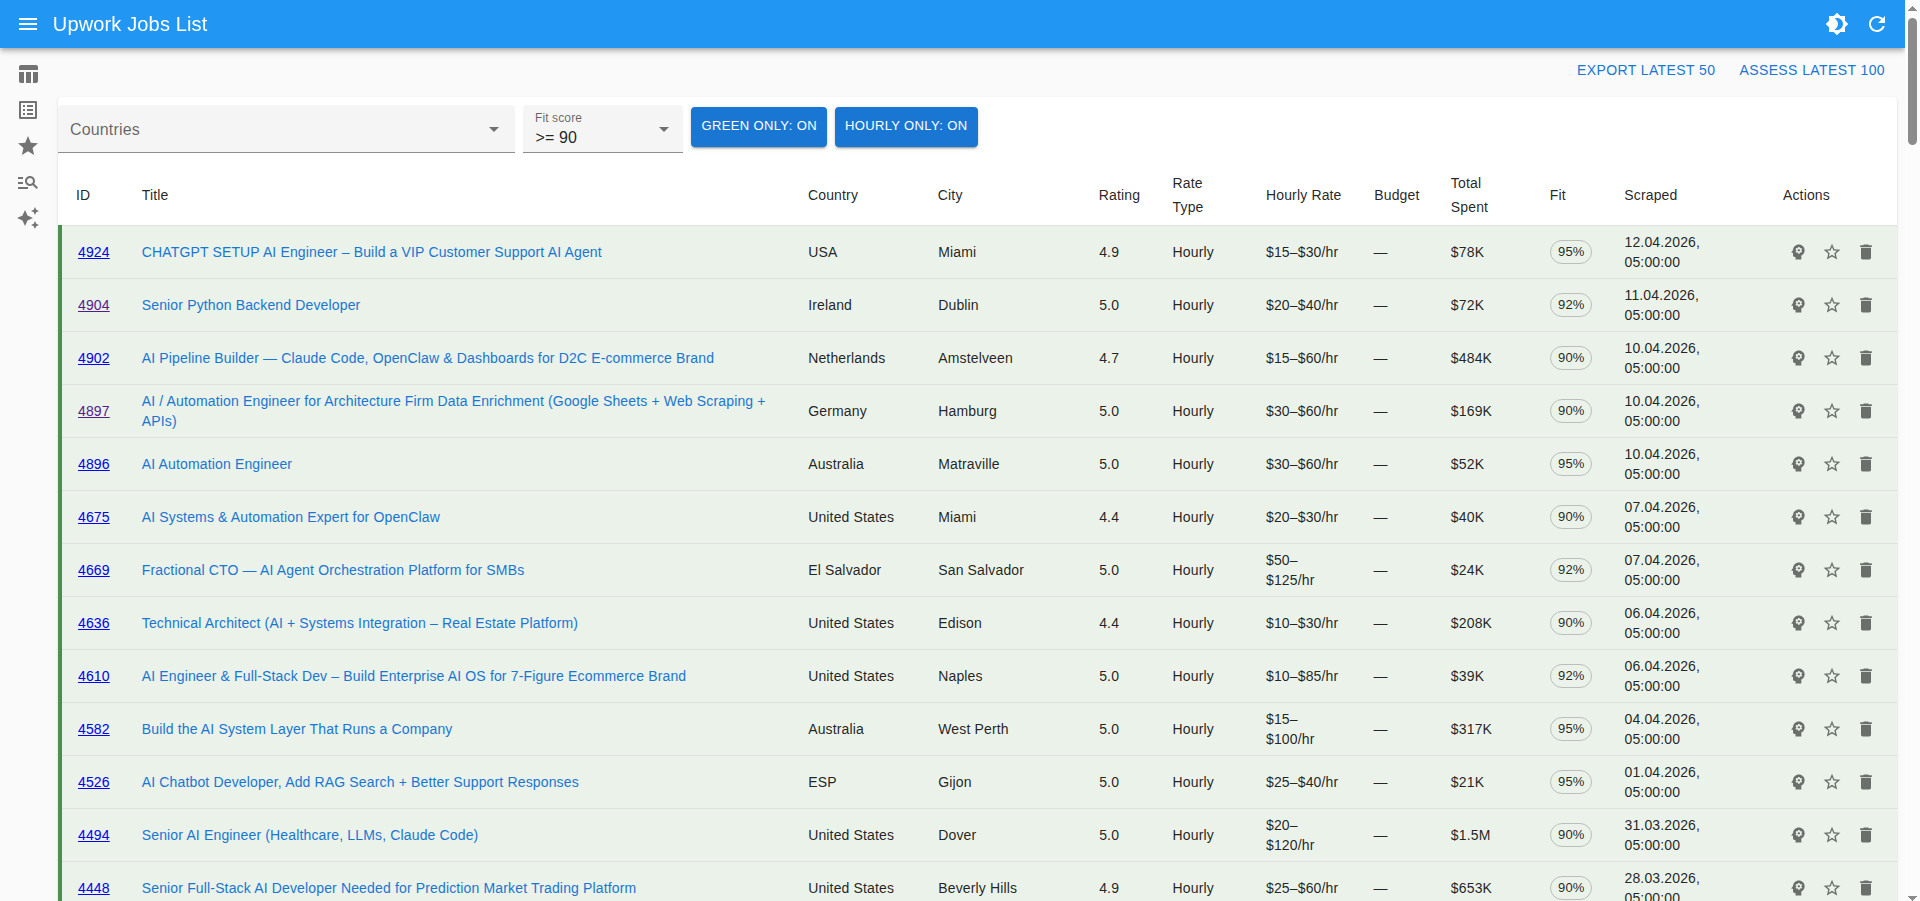
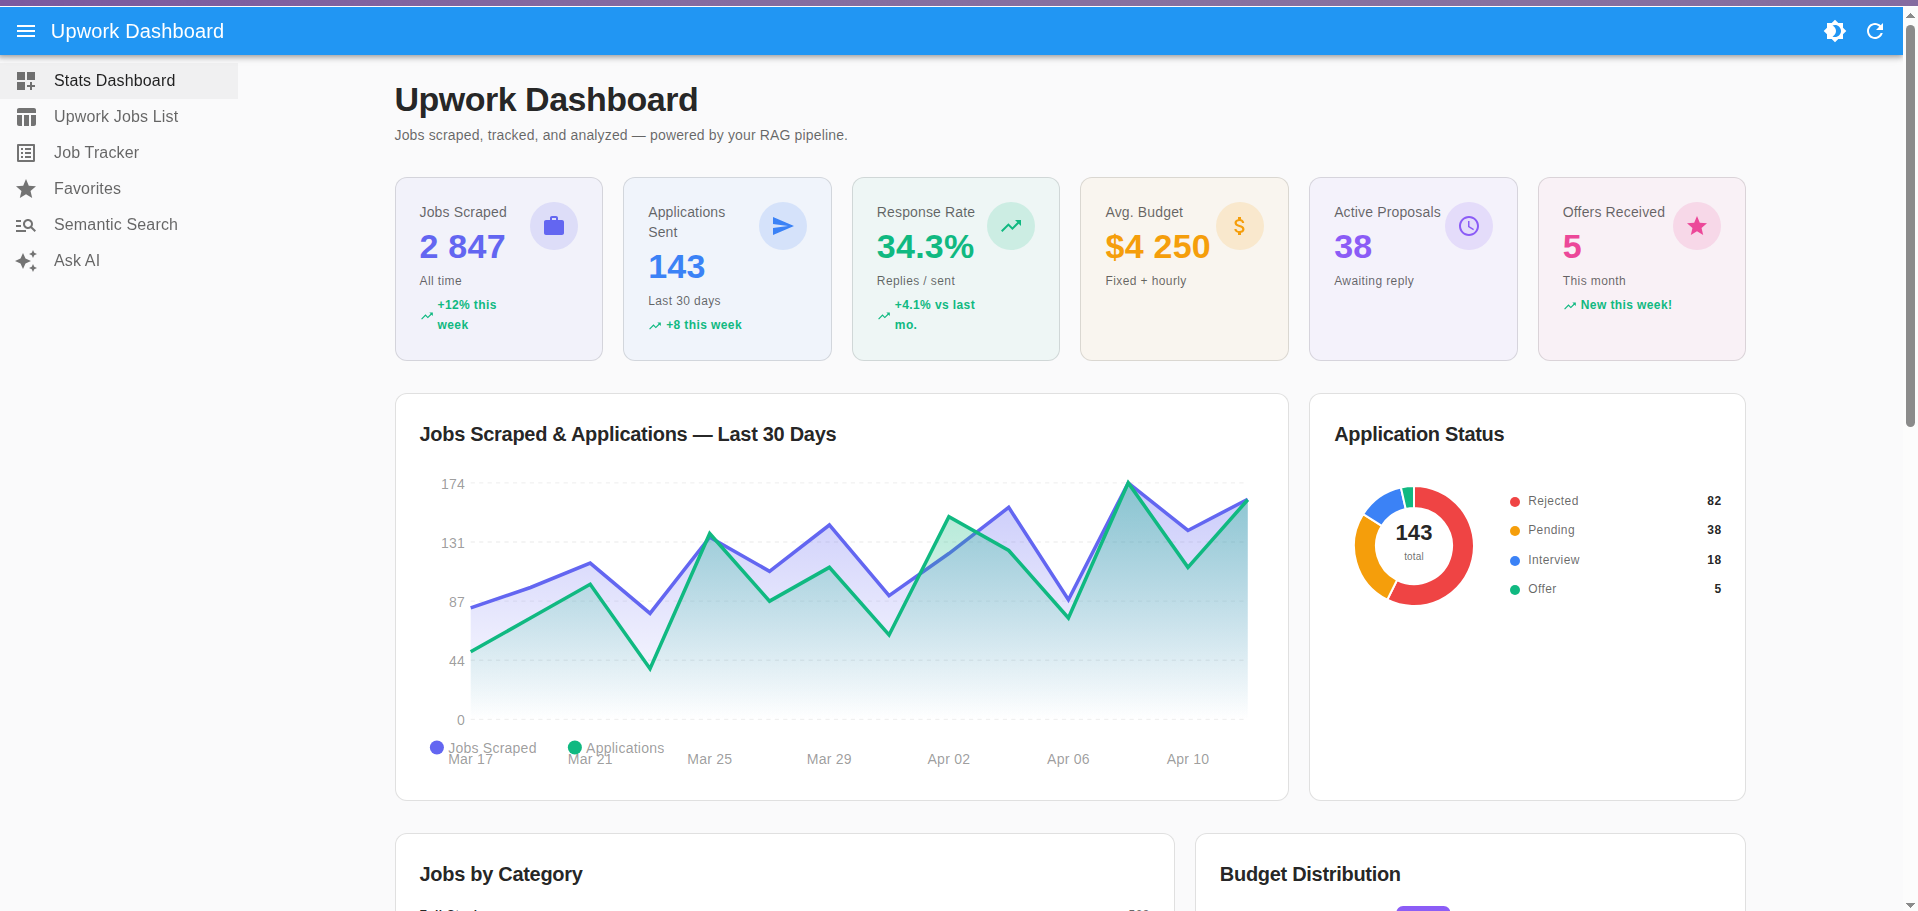
Update readme

diff --git a/README.md b/README.md
@@ -12,7 +12,8 @@
 ## ✨ Overview
 
 ![Dashboard](./public/upworkAdmin.png)
-![FilterOver10](./public/upworkAdmin1.png)
+![DashboardBottom](./public/upworkAdmin1.png)
+![FilterOver10](./public/upworkAdmin2.png)
 
 **Upwork Admin** is a lightweight React Admin dashboard for working with Upwork job data through a custom backend API.
 
